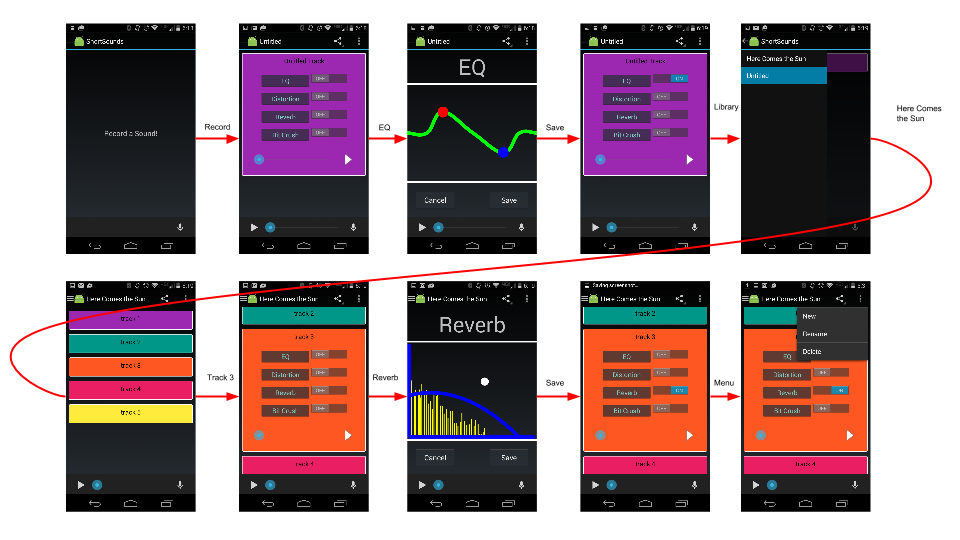
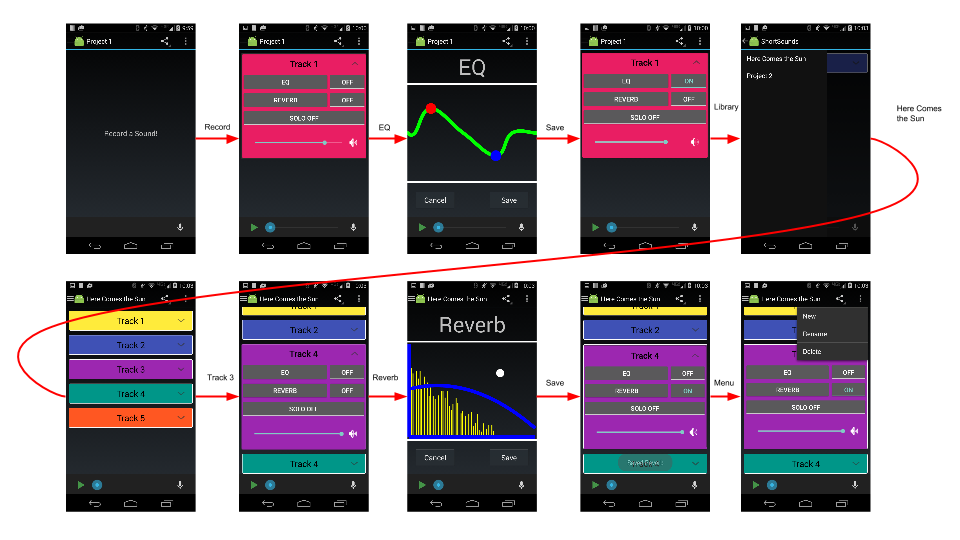
updated user docs for ui change

diff --git a/user.html b/user.html
@@ -106,7 +106,7 @@
     </p>
     <h4>Add effects to a Track</h4>
     <p>  
-      After you have recorded a track, there will be options for different effects to add in a box, as seen in the second phone diagram on the top of Figure 1.  If you have more than one track recorded, the tracks will be shown in layers as seen in the first phone diagram on the bottom of Figure 1.  Touch the layer of the track that you wish to edit.  Pick one of the different effects options, and a screen will be displayed with either knobs or a graph to adjust the different components of the effect.  For example, if Reverb was the selected effect a graph would pop up as seen in the third phone diagram on the bottom of Figure 1.  Simply move the point to adjust echo and length.  After you click save (or cancel), you may press the white triangle play button near the bottom of the track to hear how the track sounds with the effect you are adding.  Alternatively, if you wish to hear how the whole ShortSound sounds with the effect that you are adding, you can press the play button on the bottom left of the screen.  Now, you can toggle the on/off switch by the effect to turn the effect that you have just adjusted on or off for the track.  From here, you can either add another effect to this track or another track, record a new track, save your ShortSound to your library, or share your ShortSound.
+      After you have recorded a track, there will be options for different effects to add in a box, as seen in the second phone diagram on the top of Figure 1.  If you have more than one track recorded, the tracks will be shown in layers. Currently there are two possible effects you can add, eq and reverb. You can enable/disable the effect by pressing the On/Off button next to the effect button. To edit an effect, click the individual effect button (labeled EQ or REVERB) which will take you to that corresponding effect view. Clicking save will save any changes you made while editing an effect, or cancel to discard.
     </p>
     <h4>Rename a Track</h4>
     <p>
@@ -119,6 +119,10 @@
     <h4>Delete a Track</h4>
     <p>
       To delete a track, there is a "swipe to delete" funcionality. Simply swipe the track's title left or right until the track dissapears.
+    </p>
+    <h4>Listening to your ShortSound</h4>
+    <p>
+      In order to play your selected ShortSound, simply press the play button located at the bottom left of the screen. This will play all of your tracks that you have recorded within this ShortSound. It is also possible to listen to tracks alone. Open a tracks effect/volume panel and press the SOLO button. Whenever a track’s SOLO button is enabled, only those tracks with SOLO enabled will be played.
     </p>
     <h4>Rename a ShortSound</h4>
     <p>
